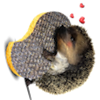
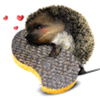
Rotate hedgehog

diff --git a/index.html b/index.html
@@ -6,10 +6,6 @@
     <title>Tentez votre chance ! by apido</title>
     <link href="images/favicon.ico" rel="shortcut icon" type="image/x-icon">
     <link rel="stylesheet" href="stylesheets/styles.css">
-    <script src="javascripts/scale.fix.js"></script>
-    <script src="javascripts/typingText.js"></script>
-    <script src="http://ajax.googleapis.com/ajax/libs/jquery/1.9.1/jquery.min.js"></script>
-    <script src="javascripts/cloverscratcher.js"></script>
     <meta name="viewport" content="width=device-width, initial-scale=1, user-scalable=no">
     <!--[if lt IE 9]>
     <script src="//html5shiv.googlecode.com/svn/trunk/html5.js"></script>
@@ -28,7 +24,7 @@
           </div>
         </div>
         <div id="hedgehog" class="onTop">
-          <img src="images/sponge.png" height='100px'>
+          <img src="images/sponge.png" width='100px' height='100px'>
           <em class="notice">Cliquez sur les cases pour me faire gratter !</em>
         </div>
         <section id='calendar'>
@@ -45,4 +41,8 @@
     <!--[if !IE]><script>fixScale(document);</script><![endif]-->
 		
   </body>
+    <script src="javascripts/scale.fix.js"></script>
+    <script src="javascripts/typingText.js"></script>
+    <script src="http://ajax.googleapis.com/ajax/libs/jquery/1.9.1/jquery.min.js"></script>
+    <script src="javascripts/cloverscratcher.js"></script>
 </html>

diff --git a/stylesheets/styles.css b/stylesheets/styles.css
@@ -626,12 +626,6 @@ footer {
   #hedgehog.onTop {
     margin-top: -470px;
     margin-left: -40px; }
-    #hedgehog.onTop img {
-      -webkit-transform: rotate(-70deg);
-      -moz-transform: rotate(-70deg);
-      -ms-transform: rotate(-70deg);
-      -o-transform: rotate(-70deg);
-      transform: rotate(-70deg); }
   #hedgehog.onLeaf {
     margin-top: -120px;
     margin-left: -40px; }

diff --git a/src/ticket.scss b/src/ticket.scss
@@ -21,7 +21,6 @@ $RAD3: 0px;
   &.onTop{
     margin-top: -470px;
     margin-left: -40px;
-  img {@include transform(rotate(-70deg));}
   }
   &.onLeaf {
     margin-top: -120px;
